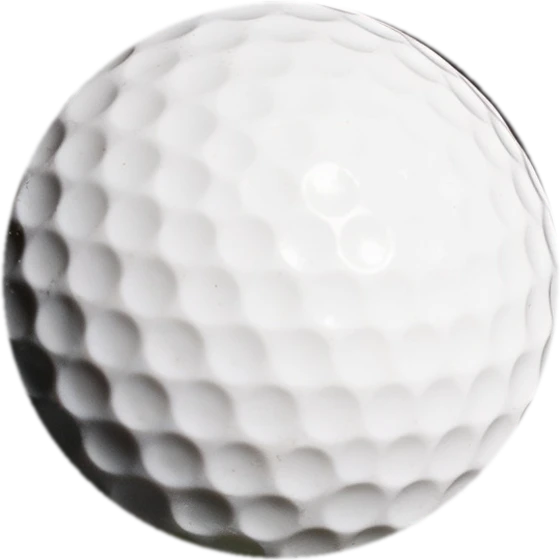
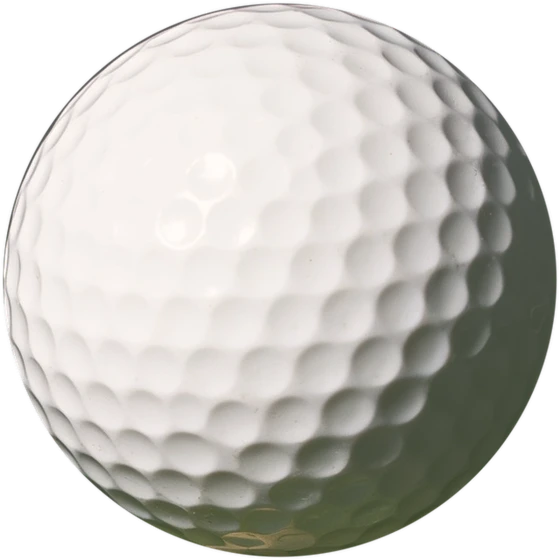
Golf invitation: the ball now rests on a wooden tee in the dewy fairway photo (no floating clump of soil); clean round ball cut-out used across the page

diff --git a/demos/cumple-golf/index.html b/demos/cumple-golf/index.html
@@ -60,10 +60,20 @@ html.locked .p-hint { opacity: 0; }
 .lang button[aria-pressed="true"] { background: var(--navy); color: #fff; }
 
 /* ---------- the fairway at sunrise ---------- */
-.scene { position: fixed; inset: 0; z-index: 40; overflow: hidden; cursor: pointer; -webkit-tap-highlight-color: transparent; background: linear-gradient(180deg, #B9D6EE, #DCEAF5 40%, #F6F1E4); }
+.scene { position: fixed; inset: 0; z-index: 40; overflow: hidden; cursor: pointer; -webkit-tap-highlight-color: transparent; background: linear-gradient(180deg, #8AA9C6, #9DB8D2 30%, #CFDCE6 70%, #EEF0EA); }
 .cam { position: absolute; inset: 0; transition: transform 2s cubic-bezier(.5,.05,.25,1); }
-.veil { position: absolute; inset: 0; background: url("img/fondo.webp") 50% 62% / cover no-repeat; }
-.veil::after { content: ""; position: absolute; inset: 0; background: linear-gradient(180deg, rgba(255,255,255,.80), rgba(255,255,255,.62) 30%, rgba(255,255,255,.30) 50%, rgba(255,255,255,0) 64%); }
+/* wide screens: the same fairway, softly out of focus, fills the sides */
+.veil { position: absolute; inset: -30px; background: url("img/campo.webp") 50% 52% / cover no-repeat; filter: blur(22px) saturate(1.05) brightness(1.04); -webkit-mask: linear-gradient(180deg, transparent, #000 22%); mask: linear-gradient(180deg, transparent, #000 22%); }
+/* the photo: an empty wooden tee in the dewy grass; the ball rests on it */
+.stage { position: absolute; left: 50%; bottom: 0; height: 100%; aspect-ratio: 1080 / 1920; transform: translateX(-50%); background: url("img/campo.webp") center / 100% 100% no-repeat; }
+.stage::after { content: ""; position: absolute; inset: 0; pointer-events: none; background: linear-gradient(180deg, rgba(255,255,255,.62), rgba(255,255,255,.42) 22%, rgba(255,255,255,.12) 34%, rgba(255,255,255,0) 40%); }
+.stage { -webkit-mask: linear-gradient(180deg, transparent, #000 4%); mask: linear-gradient(180deg, transparent, #000 4%); }
+@media (min-aspect-ratio: 9/16) {
+  .stage { -webkit-mask: linear-gradient(180deg, transparent, #000 4%), linear-gradient(90deg, transparent, #000 14%, #000 86%, transparent); -webkit-mask-composite: source-in;
+           mask: linear-gradient(180deg, transparent, #000 4%), linear-gradient(90deg, transparent, #000 14%, #000 86%, transparent); mask-composite: intersect; }
+}
+/* landscape screens: the photo sits a little lower so the ball stays clear of the text */
+@media (min-aspect-ratio: 4/5) { .stage { bottom: -10vh; } }
 .sun { position: absolute; inset: 0; z-index: 9; pointer-events: none; opacity: 0; background: radial-gradient(circle at 62% 18%, #FFFFFF, rgba(255,250,236,.95) 26%, rgba(250,246,236,.7) 56%, rgba(246,242,232,.35)); transition: opacity 1.1s ease; }
 
 .cface { position: absolute; inset: 0; z-index: 6; pointer-events: none; display: flex; flex-direction: column; align-items: center; text-align: center; padding: calc(62px + env(safe-area-inset-top, 0px)) 20px 0; }
@@ -78,26 +88,22 @@ html.locked .p-hint { opacity: 0; }
 .c-hint span { animation: breathe 2.6s ease-in-out infinite; } .c-hint i { width: 24px; height: 1px; background: linear-gradient(90deg, transparent, var(--navy2)); } .c-hint i:last-child { transform: scaleX(-1); }
 .scene.go .cface p { opacity: 0; transform: translateY(-8px); }
 
-/* the ball on its tee, in the dewy grass of the foreground */
-.obj { position: absolute; z-index: 5; left: 50%; bottom: calc(3% + env(safe-area-inset-bottom, 0px)); width: min(44vw, 230px); aspect-ratio: 860 / 1400; transform: translateX(-50%); }
-.obj .tee { position: absolute; inset: 0; width: 100%; height: 100%; filter: drop-shadow(0 18px 18px rgba(20,40,20,.35)); }
-.ballbtn { position: absolute; left: 22.6%; top: .8%; width: 63.2%; aspect-ratio: 1; padding: 0; border: 0; background: none; cursor: pointer; pointer-events: auto; border-radius: 50%; }
-.ballbtn img { display: block; width: 100%; height: 100%; filter: drop-shadow(0 6px 8px rgba(20,40,20,.3)); }
+/* the ball resting on the tee of the photo (placed in % of the photo, so it stays on the tee at any screen size) */
+.obj { position: absolute; z-index: 5; left: 31.85%; top: 40.36%; width: 37%; aspect-ratio: 1; }
+.ballbtn { position: absolute; inset: 0; padding: 0; border: 0; background: none; cursor: pointer; pointer-events: auto; border-radius: 50%; }
+.ballbtn img { display: block; width: 100%; height: 100%; filter: drop-shadow(-4px 3px 6px rgba(30,45,25,.28)); }
 .ring { position: absolute; inset: -10%; border-radius: 50%; border: 1.5px solid rgba(255,255,255,.95); box-shadow: 0 0 0 1px rgba(20,40,75,.15); pointer-events: none; animation: ring 2.3s ease-out infinite; }
 @keyframes ring { 0% { transform: scale(.86); opacity: 1; } 100% { transform: scale(1.35); opacity: 0; } }
 .scene.go .ring { display: none; }
 /* the swing: a bright arc that sweeps past the ball */
-.swoosh { position: absolute; left: -60%; top: -40%; width: 220%; aspect-ratio: 1; border-radius: 50%; pointer-events: none; opacity: 0;
+.swoosh { position: absolute; left: -95%; top: -80%; width: 290%; aspect-ratio: 1; border-radius: 50%; pointer-events: none; opacity: 0;
   background: conic-gradient(from 200deg, transparent 0deg, rgba(255,255,255,0) 20deg, rgba(255,255,255,.95) 52deg, rgba(255,255,255,0) 60deg, transparent 360deg);
   -webkit-mask: radial-gradient(closest-side, transparent 86%, #000 88%, #000 95%, transparent 97%); mask: radial-gradient(closest-side, transparent 86%, #000 88%, #000 95%, transparent 97%); }
 .scene.swing .swoosh { animation: swoosh .42s cubic-bezier(.4,0,.2,1) forwards; }
 @keyframes swoosh { 0% { opacity: 0; transform: rotate(-70deg); } 30% { opacity: 1; } 100% { opacity: 0; transform: rotate(50deg); } }
-.scene.swing .obj .tee { animation: wobble .5s ease-out; transform-origin: 50% 100%; }
-@keyframes wobble { 0% { transform: rotate(0); } 30% { transform: rotate(-3deg); } 60% { transform: rotate(1.5deg); } 100% { transform: rotate(0); } }
 #trail { position: absolute; inset: 0; z-index: 7; width: 100%; height: 100%; pointer-events: none; }
 /* the camera tilts up into the sky, then the sunlight */
 .scene.tilt .cam { transform: translateY(42%) scale(1.06); }
-.scene.tilt .obj { transition: opacity .8s ease .4s; opacity: 0; }
 .scene.glare .sun { opacity: 1; }
 .scene.clear .sun { opacity: 0; transition: opacity 1.3s ease; }
 .scene.clear { pointer-events: none; background: transparent; transition: background .8s ease; }
@@ -219,7 +225,7 @@ html.locked .p-hint { opacity: 0; }
 @media (max-width: 460px) { .timeline span { font-size: 17px; } .timeline time { font-size: 12.5px; padding-right: 12px; } .timeline span { padding-left: 12px; } .timeline li { grid-template-columns: 1fr 34px 1.25fr; } }
 
 .foot { position: relative; display: flex; flex-direction: column; align-items: center; gap: 8px; text-align: center; padding: 40px 16px calc(80px + env(safe-area-inset-bottom, 0px)); }
-.foot .fobj { width: clamp(70px, 10vw, 96px); height: auto; filter: drop-shadow(0 12px 12px rgba(20,40,20,.25)); margin-bottom: 4px; }
+.foot .fobj { width: clamp(54px, 7vw, 70px); height: auto; filter: drop-shadow(0 12px 12px rgba(20,40,20,.25)); margin-bottom: 4px; }
 .foot .tag { font-family: var(--f-display); font-size: clamp(34px, 9vw, 48px); margin: 0; color: var(--navy); }
 .foot .made { font-family: var(--f-caps); font-weight: 600; font-size: 10.5px; letter-spacing: .3em; color: var(--ink-soft); margin: 0; }
 .replay { border: 1.5px solid var(--navy); background: rgba(255,255,255,.75); border-radius: 999px; padding: 10px 20px; margin-top: 10px; font-family: var(--f-caps); font-weight: 600; font-size: 10.5px; letter-spacing: .22em; color: var(--navy); cursor: pointer; }
@@ -248,6 +254,7 @@ html.locked .p-hint { opacity: 0; }
   .m.r { right: auto; left: 12px; }
   .m img { height: 72px; width: auto; }
   .m.ball img { height: 34px; margin: 12px 0 0 6px; }
+  .m.ball2 img { height: 46px; margin-top: 6px; }
   .m ~ .m { display: none; }
   .c-hint { letter-spacing: .2em; font-size: 10px; } .c-hint i { width: 16px; }
   .c-eye { letter-spacing: .24em; }
@@ -267,6 +274,12 @@ html.locked .p-hint { opacity: 0; }
 <section class="scene" id="scene" aria-label="Invitación a los 50 de Roberto" data-en-label="Invitation to Roberto's 50th">
   <div class="cam" id="cam">
     <div class="veil" aria-hidden="true"></div>
+    <div class="stage">
+      <div class="obj" id="obj">
+        <span class="swoosh" aria-hidden="true"></span>
+        <button class="ballbtn" id="ball" type="button" aria-label="Golpear la pelota y abrir la invitación" data-en-label="Hit the ball and open the invitation"><img src="img/bola.webp" alt="" width="560" height="560"><span class="ring" aria-hidden="true"></span></button>
+      </div>
+    </div>
   </div>
   <div class="cface">
     <p class="c-eye" data-en="JOIN ME TO CELEBRATE MY 50TH">TE INVITO A CELEBRAR MIS 50</p>
@@ -275,11 +288,6 @@ html.locked .p-hint { opacity: 0; }
     <p class="c-para" data-en="FOR">PARA</p>
     <p class="c-guest" id="guestName" data-en="a very special guest">un invitado muy especial</p>
     <p class="c-hint"><i></i><span data-en="TAP THE BALL TO TEE OFF">TOCA LA PELOTA PARA TIRAR</span><i></i></p>
-  </div>
-  <div class="obj" id="obj">
-    <img class="tee" src="img/tee.webp" alt="" width="860" height="1400">
-    <span class="swoosh" aria-hidden="true"></span>
-    <button class="ballbtn" id="ball" type="button" aria-label="Golpear la pelota y abrir la invitación" data-en-label="Hit the ball and open the invitation"><img src="img/bola.webp" alt="" width="560" height="560"><span class="ring" aria-hidden="true"></span></button>
   </div>
   <canvas id="trail" aria-hidden="true"></canvas>
   <div class="sun" aria-hidden="true"></div>
@@ -318,7 +326,7 @@ html.locked .p-hint { opacity: 0; }
 
   <main class="flow" id="detalles">
     <section class="part">
-      <div class="m r" style="--w:6vw;--mw:86px;--top:8%"><img src="img/objeto.webp" alt=""></div>
+      <div class="m r ball2" style="--w:4.6vw;--mw:62px;--top:8%"><img src="img/bola.webp" alt=""></div>
       <div class="txt">
         <p class="eyebrow" data-en="A FEW WORDS">UNAS PALABRAS</p>
         <p class="quote" data-en="“Fifty years, and the best shots have always been the ones I shared with you. Let's play one more round and raise a glass to everything still to come.”">“Cincuenta años, y los mejores tiros siempre han sido los que compartí contigo. Juguemos una ronda más y brindemos por todo lo que viene.”</p>
@@ -343,7 +351,7 @@ html.locked .p-hint { opacity: 0; }
     </section>
 
     <section class="part">
-      <div class="m r" style="--w:6vw;--mw:86px;--top:6%"><img src="img/objeto.webp" alt=""></div>
+      <div class="m r ball2" style="--w:4.6vw;--mw:62px;--top:6%"><img src="img/bola.webp" alt=""></div>
       <div class="txt">
         <h2 data-en="Save the date">Reserva la fecha</h2>
         <p class="big-date">15 · 05 · 2027</p>
@@ -375,7 +383,7 @@ html.locked .p-hint { opacity: 0; }
     </section>
 
     <section class="part">
-      <div class="m r" style="--w:6vw;--mw:86px;--top:6%"><img src="img/objeto.webp" alt=""></div>
+      <div class="m r ball2" style="--w:4.6vw;--mw:62px;--top:6%"><img src="img/bola.webp" alt=""></div>
       <div class="txt">
         <h2 data-en="The day">Itinerario</h2>
         <span class="rule" aria-hidden="true" style="width:min(56vw,280px)"><i></i><img src="img/pelota.webp" alt=""><i></i></span>
@@ -399,7 +407,7 @@ html.locked .p-hint { opacity: 0; }
     </section>
 
     <section class="part">
-      <div class="m r" style="--w:6vw;--mw:86px;--top:6%"><img src="img/objeto.webp" alt=""></div>
+      <div class="m r ball2" style="--w:4.6vw;--mw:62px;--top:6%"><img src="img/bola.webp" alt=""></div>
       <div class="txt">
         <h2 data-en="RSVP">Confirma</h2>
         <div class="panel pass">
@@ -412,7 +420,7 @@ html.locked .p-hint { opacity: 0; }
     </section>
 
     <footer class="foot">
-      <img class="fobj" src="img/objeto.webp" alt="">
+      <img class="fobj" src="img/bola.webp" alt="">
       <p class="tag">#Roberto50</p>
       <p class="made" data-en="MADE WITH ILUSIÓN · ILUSIÓN INVITES">HECHO CON ILUSIÓN · ILUSIÓN INVITES</p>
       <button class="replay" id="replay" type="button" data-en="TEE OFF AGAIN">TIRAR OTRA VEZ</button>
